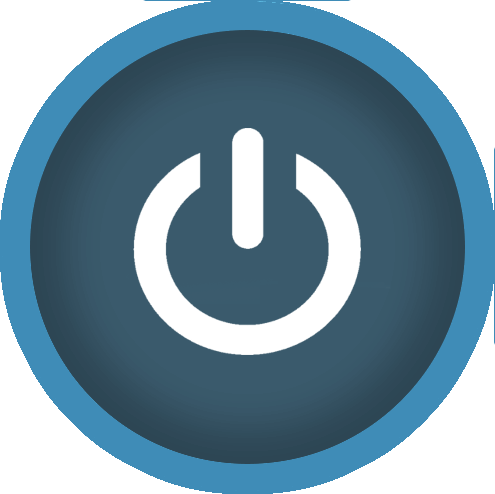
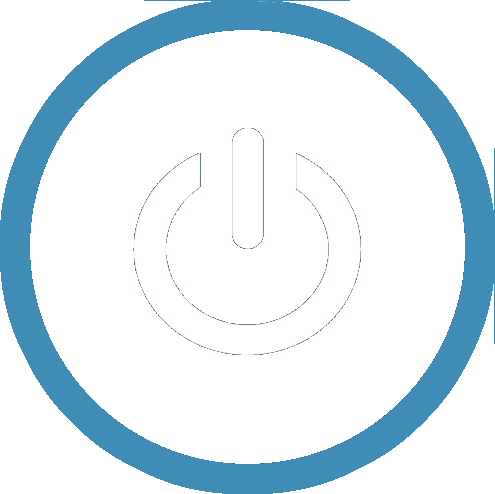
Zmiana przycisków

diff --git a/www/css/index.css b/www/css/index.css
@@ -785,7 +785,8 @@ textarea:focus, textarea:hover, textarea:active{
 	-webkit-border-radius: 50%;
 	width: 0.99em;
 	height: 0.99em;
-	background: #3f8cb7;
+	/*background: #3f8cb7;*/
+    /*background: none;*/
 	background-clip: padding-box;
 	font-size: 120px;
 }
@@ -1048,7 +1049,7 @@ section{
 }
 #menu li:last-of-type{
 	font-size: 48px;
-	border: 0;
+	/*border: 0;*/
 	width: 100%;
 	margin: 10px auto;
 	padding: 0px 0;
@@ -1057,11 +1058,11 @@ section{
 	padding-top: 10px;
 	margin-top: 24px;
 	margin-bottom: 0px;
-	border-radius: 0;
+	border-radius: 15px;
 	position: absolute;
 	bottom: 25px;
-	background: url("../img/btn_menu.png");
-	background-size: 100% 100%;
+	/*background: url("../img/btn_menu.png");
+	background-size: 100% 100%;*/
 }
 #menu ul{
 	padding: 25px 0 0 0;
